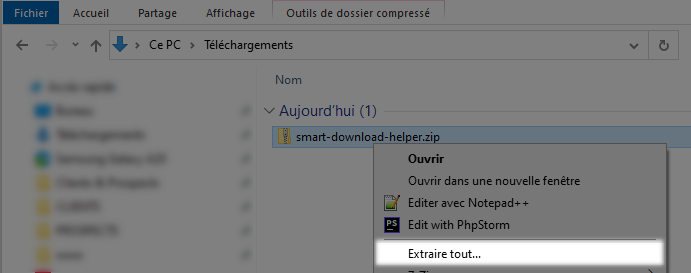
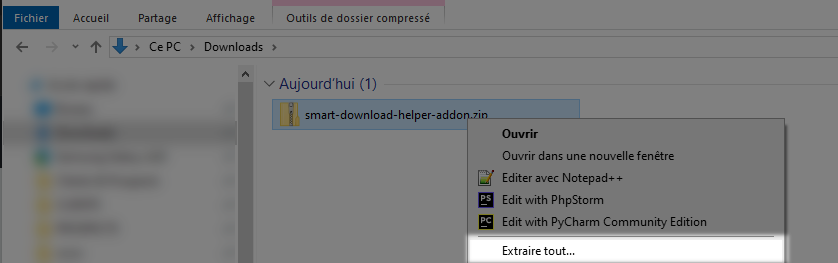
Updated the README.md file

diff --git a/README.md b/README.md
@@ -46,11 +46,11 @@ retraite.*
 
 **2°** Extraire l'archive
 
-> ATTENTION :
-> Une fois l'extension installée, si son répertoire est supprimé, l'extension ne fonctionnera plus.
+> ⚠ ATTENTION :
+> Une fois l'extension installée, si son répertoire est supprimé, celle-ci ne fonctionnera plus.
 >
 > Assurez-vous d'extraire les fichiers dans un dossier que vous ne supprimez pas accidentellement.
-> Par exemple : `C:\Program Files\smart-download-helper`
+> Par exemple : `C:\Program Files\smart-download-helper-addon`
 
 ![télécharger l'extension - étape 2](assets/images/step2.png)
 
@@ -69,15 +69,11 @@ des navigateurs, son installation est un peu particulière et doit se faire "à 
 
 **2°** Rendez-vous dans le menu en haut à droite du navigateur
 
-![installer l'extension - chrome - étape 2](assets/images/chrome/step2.png)
-
-**3°** Rendez-vous dans le menu de gestion des extensions de Chrome
-
-> Menu `Plus d'outils > Extensions`
+Menu `Plus d'outils > Extensions > Gérer les extensions`
 
 ![installer l'extension - chrome - étape 3](assets/images/chrome/step3.png)
 
-**4°** Activez le `mode développeur`
+**4°** Activez le `mode développeur` en haut à droite
 
 ![installer l'extension - chrome - étape 4](assets/images/chrome/step4.png)
 
@@ -85,9 +81,9 @@ des navigateurs, son installation est un peu particulière et doit se faire "à 
 
 ![installer l'extension - chrome - étape 5](assets/images/chrome/step5.png)
 
-**6°** Sélectionnez le répertoire extrait à l'étape n°2
+**6°** Sélectionnez le répertoire `browser-addon` dans le dossier extrait à l'étape n°2
 
-> Par exemple : `C:\Program Files\smart-download-helper`
+> Par exemple : `C:\Program Files\smart-download-helper-addon\browser-addon`
 
 ![installer l'extension - chrome - étape 6](assets/images/chrome/step6.png)
 
@@ -99,7 +95,7 @@ des navigateurs, son installation est un peu particulière et doit se faire "à 
 
 **8°** Activez le téléchargement automatique des fichiers
 
-> Menu `Paramètres > Téléchargements`
+Menu `Paramètres > Téléchargements`
 
 - Sélectionnez un emplacement pour enregistrer les fichiers
 - Décochez la case "Toujours demander où enregistrer les fichiers"
@@ -118,11 +114,9 @@ des navigateurs, son installation est un peu particulière et doit se faire "à 
 
 **2°** Rendez-vous dans le menu en haut à droite du navigateur
 
-![installer l'extension - firefox - étape 2](assets/images/firefox/step2.png)
-
 **3°** Rendez-vous dans le menu de gestion des extensions de Firefox
 
-> Menu `Extensions et thèmes`
+Menu `Extensions et thèmes`
 
 ![installer l'extension - firefox - étape 3](assets/images/firefox/step3.png)
 
@@ -136,9 +130,9 @@ des navigateurs, son installation est un peu particulière et doit se faire "à 
 
 ![installer l'extension - firefox - étape 5](assets/images/firefox/step5.png)
 
-**6°** Sélectionnez le fichier `manifest.json` dans le répertoire extrait à l'étape n°2
+**6°** Sélectionnez le fichier `browser-addon/manifest.json` dans le dossier extrait à l'étape n°2
 
-> Par exemple : `C:\Program Files\smart-download-helper\manifest.json`
+> Par exemple : `C:\Program Files\smart-download-helper-addon\browser-addon\manifest.json`
 
 ![installer l'extension - firefox - étape 6](assets/images/firefox/step6.png)
 
@@ -149,7 +143,8 @@ des navigateurs, son installation est un peu particulière et doit se faire "à 
 **8°** Autorisez le chargement automatique de l'extension sur la page
 
 > Retournez dans le menu de gestion de vos extensions
-> Menu `Extensions et thèmes`
+
+Menu `Extensions et thèmes`
 
 ![installer l'extension - firefox - étape 8](assets/images/firefox/step3.png)
 
@@ -164,7 +159,7 @@ des navigateurs, son installation est un peu particulière et doit se faire "à 
 
 **9°** Activez le téléchargement automatique des fichiers
 
-> Menu `Paramètres` Puis faites défiler la page jusqu'à la section Téléchargements
+Menu `Paramètres` Puis faites défiler la page jusqu'à la section Téléchargements
 
 - Sélectionnez un emplacement pour enregistrer les fichiers
 - Décochez la case "Toujours demander où enregistrer les fichiers"
@@ -181,7 +176,7 @@ des navigateurs, son installation est un peu particulière et doit se faire "à 
 
 **2°** Rendez-vous sur la liste des contrats acceptés
 
-> Menu `Historique > Contrats acceptés`
+Menu `Historique > Contrats acceptés`
 
 **3°** Si l'extension est bien chargée et activée, une pop-up de gestion des téléchargements apparaît sur la droite de
 la page et des cases à chocher sont ajoutées à coté des documents à télécharger.
